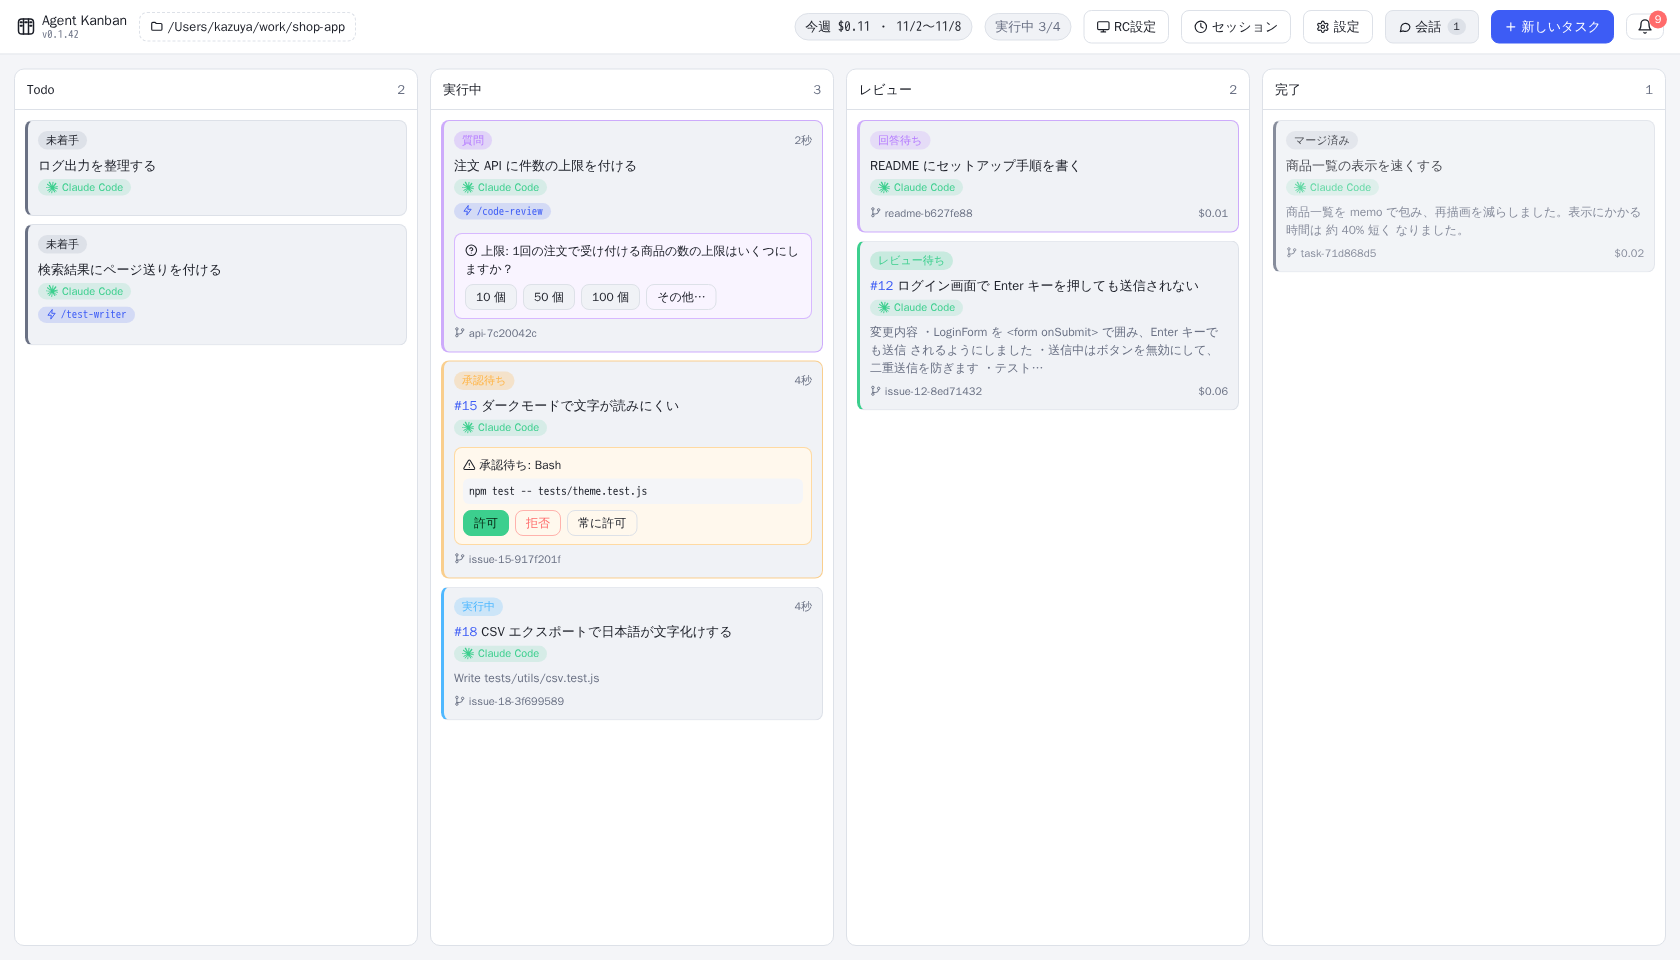
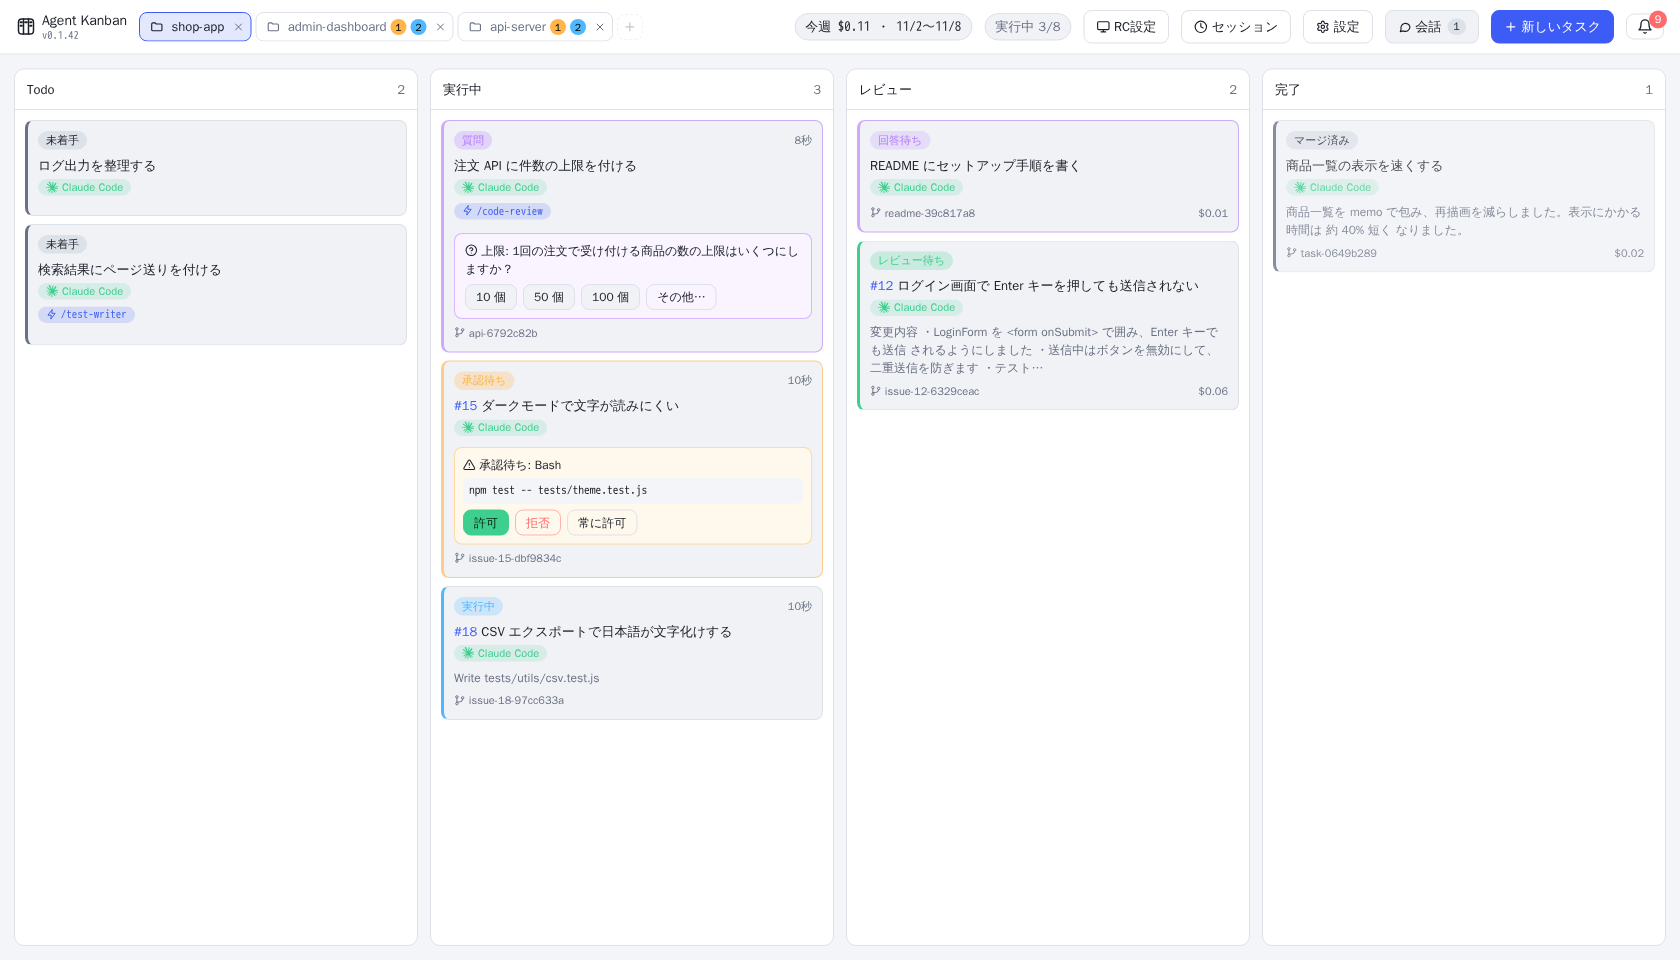
README: 複数のリポジトリを並列に動かせることを先頭に書き、スクリーンショットを撮り直す
- タブで開いた 3 つのリポジトリでタスクが動き、開いていないタブに動いている数・対応を待っている数が出ている画面を足す
- リポジトリを選ぶダイアログ・承認待ちの詳細など、画面が変わったものを撮り直す

遠隔操作中にリポジトリのタブが潰れて名前が見えなかったので直す:
- タブの左の接続先はアイコンだけにする（接続先はツールチップと「遠隔操作中」のピルに出る）
- 遠隔操作中は、上部のほかのボタンをアイコンだけにし、タブに最小幅を付ける

Claude-Session: https://claude.ai/code/session_01LEHjAwv9Yqf8tHhZYVRgtR

diff --git a/renderer/styles.css b/renderer/styles.css
@@ -110,7 +110,7 @@ input:focus, textarea:focus, select:focus { outline: 2px solid var(--accent); ou
 /* 左上のリポジトリのタブ（3つまで）。幅が足りないときはフォルダ名を省略して縮める */
 .repo-tabs { display: flex; align-items: center; gap: 4px; min-width: 0; overflow: hidden; -webkit-app-region: no-drag; }
 .repo-tabs > .repo { min-width: 0; }
-.repo-tab { display: flex; align-items: center; min-width: 0; flex: 0 1 auto; max-width: 240px; border: 1px solid var(--line); border-radius: 8px; background: transparent; }
+.repo-tab { display: flex; align-items: center; min-width: 108px; flex: 0 1 auto; max-width: 240px; border: 1px solid var(--line); border-radius: 8px; background: transparent; }
 .repo-tab:hover { border-color: var(--accent); }
 .repo-tab.active { border-color: var(--accent); background: color-mix(in srgb, var(--accent) 14%, transparent); font-weight: 600; }
 .repo-tab-main { display: flex; align-items: center; min-width: 0; gap: 4px; padding: 4px 8px 4px 10px; border: 0; background: transparent; color: inherit; font: inherit; cursor: pointer; }
@@ -130,7 +130,10 @@ input:focus, textarea:focus, select:focus { outline: 2px solid var(--accent); ou
 /* 遠隔操作中: ホストのリポジトリだと分かるように、接続先の名前を付けて色を変える */
 .repo-tabs.remote .repo-tab, .repo-tabs.remote > .repo { border-color: color-mix(in srgb, var(--run) 45%, var(--line)); }
 .repo-host { flex: none; color: var(--run); font-weight: 600; margin-right: 2px; white-space: nowrap; }
-.repo-host::after { content: ':'; }
+/* 接続先の名前を出すとタブが潰れて名前が見えなくなるので、アイコンだけにする（接続先はツールチップと、上部の「遠隔操作中」に出る） */
+.repo-host { display: inline-flex; align-items: center; }
+.repo-host-name { display: none; }
+
 /* ホストのフォルダを辿る一覧（遠隔操作中） */
 .dir-browser { display: grid; gap: 8px; }
 .dir-browser-inline { margin: -4px 0 12px; padding: 10px; background: var(--panel-2); border: 1px solid var(--line); border-radius: 10px; }
@@ -811,3 +814,6 @@ body.resizing-row { cursor: row-resize; user-select: none; }
 .sm-meta { overflow: hidden; text-overflow: ellipsis; white-space: nowrap; }
 .sm-used { font-size: 11px; padding: 1px 8px; align-self: center; max-width: 40%; overflow: hidden; text-overflow: ellipsis; }
 .sm-count { margin-right: auto; align-self: center; }
+
+/* 遠隔操作中は上部に「遠隔操作中」のピルが増えて、リポジトリのタブが潰れるので、ほかのボタンはアイコンだけにする（名前はツールチップに出る） */
+.topbar:has(#remoteInfo:not(.hidden)) .btn:not(.primary) .btn-label { display: none; }

diff --git a/renderer/renderer.js b/renderer/renderer.js
@@ -425,7 +425,7 @@ function renderRepoTabs() {
   const el = $('repoTabs');
   el.classList.toggle('remote', !!rc);
   const host = rc ? remoteHostLabel(rc) : '';
-  const hostHtml = rc ? `<span class="repo-host" title="接続先（${esc(host)}）のリポジトリです。エージェントはホストのフォルダで動きます">${icon('monitor')}${esc(host)}</span>` : '';
+  const hostHtml = rc ? `<span class="repo-host" title="接続先（${esc(host)}）のリポジトリです。エージェントはホストのフォルダで動きます">${icon('monitor')}<span class="repo-host-name">${esc(host)}</span></span>` : '';
   if (!repo) {
     el.innerHTML = `${hostHtml}<button class="repo" id="repoPick" title="${rc ? `接続先（${esc(host)}）のリポジトリを選びます` : 'リポジトリを選ぶ'}">${icon('folder')}${rc ? 'ホストのリポジトリを選ぶ' : 'リポジトリを選ぶ'}</button>`;
     $('repoPick').onclick = () => chooseRepo({ tab: 'replace' });
